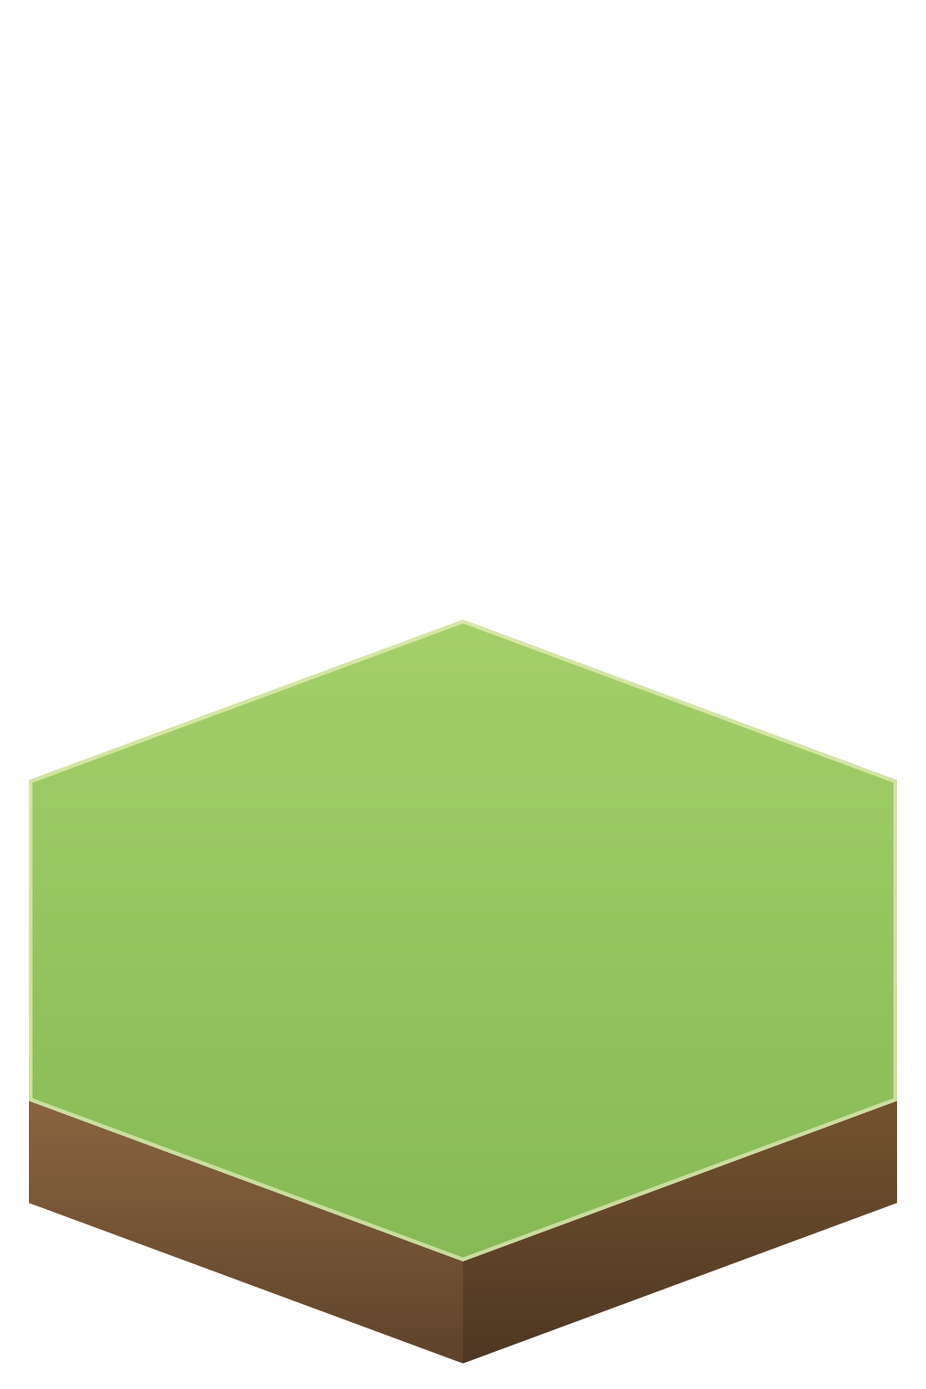
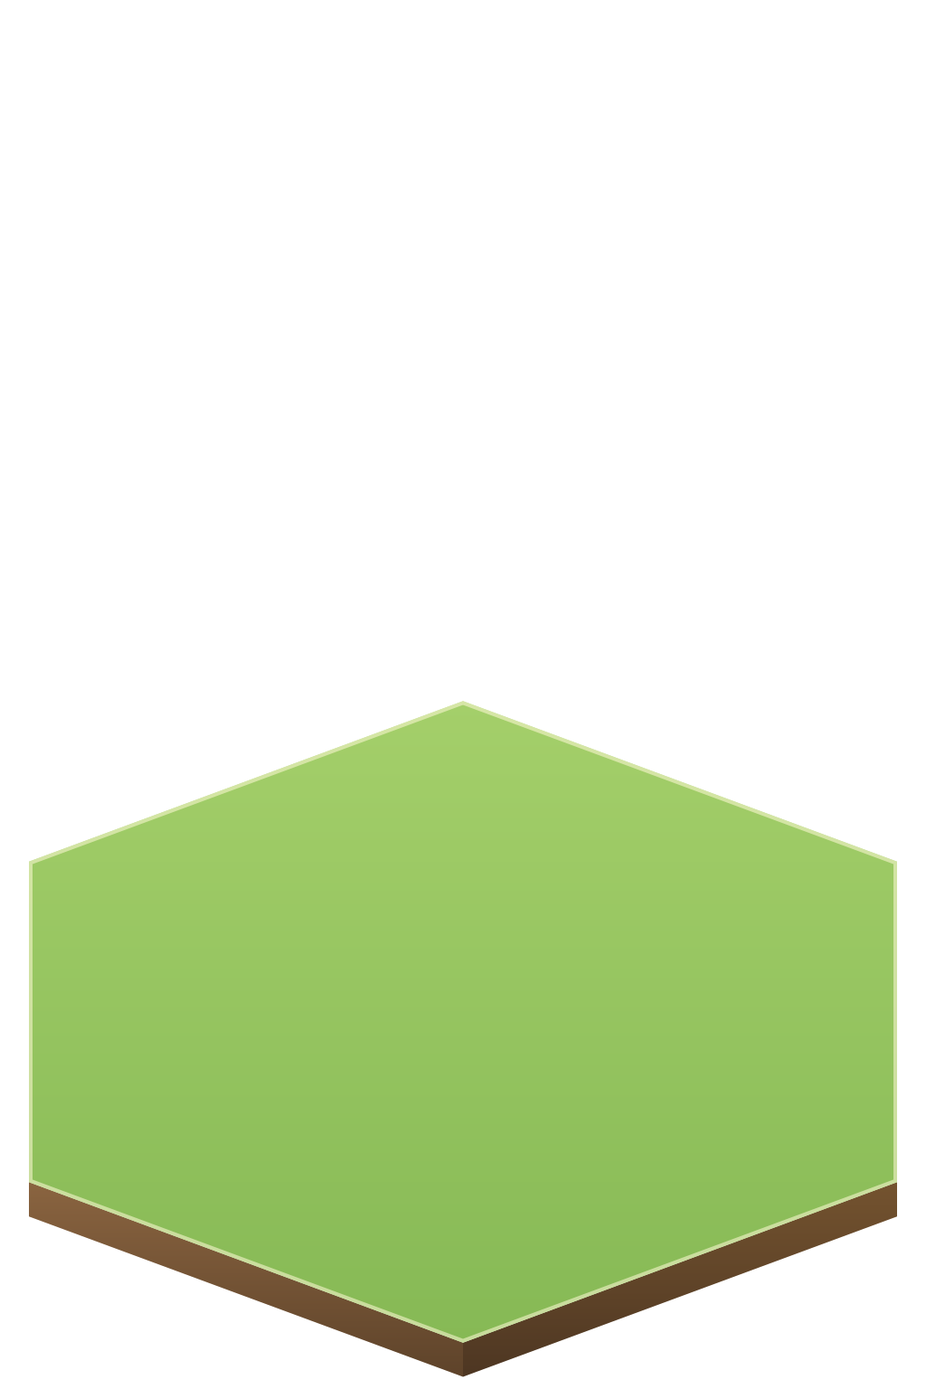
Board: full-hex plots separated by lanes that follow the travel tech
- ART.BOARD (src/art.js): plot radius 0.88, kerb 0.06, plinth 0.17 - one source
  for main.js, the atlas fit, the tile loader and the art spec
- Lanes between plots: cart track, cobbles, tarmac, garden path, guideway, moonstone
- Travellers drive along the lanes and are hidden by buildings in front
- Spec v2 follows the board: hex centre (512,1130), kerb 37.8 px; templates regenerated
- Art tools load PNGs by path (Buffer decoding fails on some valid PNGs)
- Brief: plots and lanes section, kerbs by family, updated numbers and checks

Changed region(s): [[0.0312, 0.7812, 0.9688, 1.0], [0.0312, 0.4375, 0.9688, 0.625]]

diff --git a/src/main.js b/src/main.js
@@ -448,6 +448,69 @@
   }
 
   function hexPath(x, y, u) { g.beginPath(); for (let i = 0; i < 6; i++) { const a = (Math.PI / 3) * i + Math.PI / 6; const px = x + Math.cos(a) * u, py = y + Math.sin(a) * u * SQ; if (i) g.lineTo(px, py); else g.moveTo(px, py); } g.closePath(); }
+  // v0.12 board: every building stands on its own full-hex plot, raised a low
+  // kerb above lanes that run between the plots (ART.BOARD). The lane surface
+  // follows the travel tech: cart track, cobbles, tarmac, garden path,
+  // guideway, moonstone. Travellers drive along the lanes.
+  const BOARD = ART.BOARD || { tileRadius: 0.93, kerb: 0.19, plinth: 0.19 };
+  const LANES = {
+    '0': { road: '#b49b6c', kerb: '#8b7352', mark: 'ruts', line: '#977c52' },
+    '1': { road: '#a89f92', kerb: '#857c70', mark: 'cobbles', line: '#8c8378' },
+    '2': { road: '#72777c', kerb: '#9a9a92', mark: 'dash', line: '#f3efdf' },
+    leaf: { road: '#d2bf8e', kerb: '#6fa04e', mark: 'flowers', line: '#f6d55e' },
+    star: { road: '#e4ecf0', kerb: '#c9d6dd', mark: 'glow', line: '#4fd0f0' },
+    magic: { road: '#86729f', kerb: '#6a5a86', mark: 'glints', line: '#f2d06c' },
+  };
+  function laneStyle() { const e = s.era.move; return LANES[e < 3 ? String(e) : (s.variant.move || 'leaf')] || LANES['0']; }
+  // Lane network: the edges of the full hexes, in hex units (x right, y down, before the squash).
+  function laneGraph(R) {
+    if (V.lanes && V.lanes.R === R) return V.lanes;
+    const P = new Map(), edges = [], seen = new Set(), cells = {};
+    const vid = (X, Y) => { const k = Math.round(X * 1000) + ',' + Math.round(Y * 1000); if (!P.has(k)) P.set(k, { X, Y, n: [] }); return k; };
+    for (let q = -R; q <= R; q++) for (let r = -R; r <= R; r++) {
+      if (B.hexDist(q, r) > R) continue;
+      const cx = SQ3 * (q + r / 2), cy = 1.5 * r, ids = [];
+      for (let i = 0; i < 6; i++) { const a = (Math.PI / 3) * i + Math.PI / 6; ids.push(vid(cx + Math.cos(a), cy + Math.sin(a))); }
+      cells[B.key(q, r)] = ids;
+      for (let i = 0; i < 6; i++) {
+        const a = ids[i], b = ids[(i + 1) % 6], k = a < b ? a + '|' + b : b + '|' + a;
+        if (seen.has(k)) continue; seen.add(k); edges.push([a, b]); P.get(a).n.push(b); P.get(b).n.push(a);
+      }
+    }
+    return (V.lanes = { R, P, edges, cells });
+  }
+  function laneRoute(G, from, to) {
+    const prev = new Map([[from, null]]), queue = [from];
+    while (queue.length) { const k = queue.shift(); if (k === to) break; for (const n of G.P.get(k).n) if (!prev.has(n)) { prev.set(n, k); queue.push(n); } }
+    if (!prev.has(to)) return null;
+    const out = []; for (let k = to; k; k = prev.get(k)) out.unshift(G.P.get(k)); return out;
+  }
+  const laneX = (X) => V.cx + V.u * X, laneY = (Y) => V.cy + V.u * (Y * SQ + BOARD.kerb);
+  function drawLanes(R, list) {
+    const u = V.u, st = laneStyle(), G = laneGraph(R), kerb = u * BOARD.kerb, plinth = u * BOARD.plinth, c = 1 - V.smog;
+    const road = mix(shade(st.road, -0.18), st.road, c), side = mix('#6f573b', '#86674a', c);
+    // plinth sides, then the lane surface (one full hex per cell, so the lanes join up)
+    for (const [q, r] of list) { const x = hx(q, r), y = hy(q, r) + kerb; hexPath(x, y + plinth, u); g.fillStyle = side; g.fill(); g.fillRect(x - u * SQ3 / 2, y, u * SQ3, plinth); }
+    for (const [q, r] of list) { hexPath(hx(q, r), hy(q, r) + kerb, u * 1.01); g.fillStyle = road; g.fill(); }
+    // markings along the middle of each lane
+    const lw = Math.max(1, u * 0.022);
+    g.save(); g.lineCap = 'round';
+    for (const [a, b] of G.edges) {
+      const A = G.P.get(a), Bv = G.P.get(b), x1 = laneX(A.X), y1 = laneY(A.Y), x2 = laneX(Bv.X), y2 = laneY(Bv.Y);
+      if (st.mark === 'dash') { g.strokeStyle = st.line; g.lineWidth = lw; g.setLineDash([u * 0.09, u * 0.08]); g.beginPath(); g.moveTo(x1, y1); g.lineTo(x2, y2); g.stroke(); g.setLineDash([]); }
+      else if (st.mark === 'ruts' || st.mark === 'cobbles' || st.mark === 'glints') {
+        const n = st.mark === 'ruts' ? 2 : 6;
+        for (let i = 0; i < n; i++) {
+          const k = (i + 0.5) / n, x = x1 + (x2 - x1) * k, y = y1 + (y2 - y1) * k;
+          if (st.mark === 'ruts') { g.strokeStyle = st.line; g.lineWidth = lw * 0.8; g.beginPath(); g.moveTo(x1 + (x2 - x1) * (k - 0.22), y1 + (y2 - y1) * (k - 0.22)); g.lineTo(x1 + (x2 - x1) * (k + 0.22), y1 + (y2 - y1) * (k + 0.22)); g.stroke(); }
+          else if (st.mark === 'cobbles') ell(g, x, y, u * 0.028, u * 0.018, st.line);
+          else { const tw = 0.5 + 0.5 * Math.sin(V.t * 2 + x * 0.13 + y * 0.07); g.globalAlpha = 0.35 + 0.6 * tw; circle(g, x, y, u * 0.016 * (0.7 + tw * 0.6), st.line); g.globalAlpha = 1; }
+        }
+      } else if (st.mark === 'glow') { g.strokeStyle = 'rgba(79,208,240,0.25)'; g.lineWidth = lw * 3; g.beginPath(); g.moveTo(x1, y1); g.lineTo(x2, y2); g.stroke(); g.strokeStyle = st.line; g.lineWidth = lw * 0.8; g.stroke(); }
+      else if (st.mark === 'flowers') { for (let i = 0; i < 3; i++) { const k = (i + 0.5) / 3, x = x1 + (x2 - x1) * k, y = y1 + (y2 - y1) * k; circle(g, x, y, u * 0.02, ['#f6d55e', '#f49ac1', '#ffffff'][(i + Math.round(x)) % 3]); } }
+    }
+    g.restore();
+  }
   const GROUND = { home: '#f0b080', power: '#e8e0a0', food: '#e0c070', water: '#8fd0f0', move: '#c8c0b8', make: '#d0b0e0', waste: '#a8d8b0', wild: '#3f9a3a' };
   function groups() {
     if (V.grp && V.grp.turn === s.turn && V.grp.n === s.log.length) return V.grp.m;
@@ -463,13 +526,14 @@
   }
   function drawBoard() {
     const bubbles = [], gm = groups(), flags = [];
-    const R = s.radius, u = V.u, c = 1 - V.smog, depth = u * 0.19, tileRadius = 0.93;
+    const R = s.radius, u = V.u, c = 1 - V.smog, depth = u * BOARD.kerb, tileRadius = BOARD.tileRadius, lane = laneStyle();
     const grass = mix('#9b9561', '#7fcf5b', V.vivid), grassHi = mix('#a8a26c', '#97dc6e', V.vivid), side = mix('#7b6142', '#8a6a46', c);
     const list = [];
     for (let q = -R; q <= R; q++) for (let r = -R; r <= R; r++) if (B.hexDist(q, r) <= R) list.push([q, r]);
     list.sort((a, b) => a[1] - b[1] || a[0] - b[0]);
     // board shadow
     g.globalAlpha = 0.07; ell(g, V.cx, V.cy + depth + u * 0.45, u * SQ3 * (R + 0.35), u * 1.5 * SQ * (R + 0.45), '#2a2a1a'); g.globalAlpha = 1;
+    drawLanes(R, list);
     const growing = V.t - V.growT < 1.2;
     // pass 1: ground tiles (sides first for outer ring, then tops)
     for (const [q, r] of list) {
@@ -478,7 +542,7 @@
       let a = 1; if (growing && d === R) { const k = Math.min(1, (V.t - V.growT - (Math.atan2(r, q) + Math.PI) / TAU * 0.4) / 0.5); a = Math.max(0, k); y += (1 - a) * 30; }
       if (a <= 0) continue;
       g.globalAlpha = a;
-      hexPath(x, y + depth, u * tileRadius); g.fillStyle = side; g.fill();
+      hexPath(x, y + depth, u * tileRadius); g.fillStyle = mix(shade(lane.kerb, -0.2), lane.kerb, c); g.fill();
       g.fillRect(x - u * SQ3 / 2 * tileRadius, y, u * SQ3 * tileRadius, depth);
       const t = s.tiles[B.key(q, r)];
       hexPath(x, y, u * tileRadius);
@@ -492,7 +556,7 @@
         for (const [nq, nr] of B.neighbors(q, r)) {
           const n = s.tiles[B.key(nq, nr)]; if (n && n.type === t.type) continue;
           const ang = Math.atan2((hy(nq, nr) - y) / SQ, hx(nq, nr) - x), i = (((Math.round((ang - Math.PI / 3) / (Math.PI / 3))) % 6) + 6) % 6;
-          const a1 = (Math.PI / 3) * i + Math.PI / 6, a2 = a1 + Math.PI / 3, ru = u * 0.90;
+          const a1 = (Math.PI / 3) * i + Math.PI / 6, a2 = a1 + Math.PI / 3, ru = u * tileRadius * 0.96;
           g.beginPath(); g.moveTo(x + Math.cos(a1) * ru, y + Math.sin(a1) * ru * SQ); g.lineTo(x + Math.cos(a2) * ru, y + Math.sin(a2) * ru * SQ); g.stroke();
         }
       }
@@ -505,6 +569,7 @@
     else if (V.sel >= 0 && V.hover) { const [q, r] = V.hover.split(',').map(Number); if (B.hexDist(q, r) <= R && s.tiles[V.hover]) { hexPath(hx(q, r), hy(q, r), u * tileRadius); g.strokeStyle = 'rgba(255,255,255,0.25)'; g.lineWidth = 2; g.stroke(); } }
     const hint = idleHint();
     if (hint) { const x = hx(hint.q, hint.r), y = hy(hint.q, hint.r), p = 0.5 + 0.5 * Math.sin(V.t * 4); hexPath(x, y, u * (0.76 + p * 0.12)); g.strokeStyle = `rgba(255,240,150,${0.5 + p * 0.4})`; g.lineWidth = 3; g.stroke(); }
+    travellers(V.dtBoard || 1 / 60); // on the lanes: plots and buildings in front hide them
     // pass 2: buildings + critters in depth order
     const night = V.finale && ['star','magic'].includes(V.finale.crown) && V.t - V.finale.t > 2;
     for (const [q, r] of list) {
@@ -566,14 +631,27 @@
     if (moves.length && V.trav.length < 4 + moves.length * 2 && Math.random() < dt * (0.6 + moves.length * 0.25)) {
       const m = moves[Math.floor(Math.random() * moves.length)];
       const dests = Object.values(s.tiles).filter((t) => (t.type === 'home' || t.type === 'make' || t.type === 'food') && B.hexDist(t.q - m.q, t.r - m.r) <= 3 && (t.q !== m.q || t.r !== m.r));
-      if (dests.length) { const d = dests[Math.floor(Math.random() * dests.length)]; V.trav.push({ a: [m.q, m.r], b: [d.q, d.r], t: 0, dur: 2.5 + B.hexDist(d.q - m.q, d.r - m.r) * 1.2, back: Math.random() < 0.5 }); }
+      if (dests.length) {
+        // drive along the lanes from a corner of the travel tile to a corner of the destination
+        const d = dests[Math.floor(Math.random() * dests.length)], G = laneGraph(s.radius), pick = (ids) => ids[Math.floor(Math.random() * 6)];
+        let pts = laneRoute(G, pick(G.cells[B.key(m.q, m.r)]), pick(G.cells[B.key(d.q, d.r)]));
+        if (pts && pts.length > 1) {
+          if (Math.random() < 0.5) pts = pts.reverse();
+          let len = 0; for (let j = 1; j < pts.length; j++) len += Math.hypot(pts[j].X - pts[j - 1].X, pts[j].Y - pts[j - 1].Y);
+          V.trav.push({ pts, len, t: 0, dur: 1.5 + len * 0.9 });
+        }
+      }
     }
     const era = s.era.move, v = s.variant.move;
     for (let i = V.trav.length - 1; i >= 0; i--) {
       const tr = V.trav[i]; tr.t += dt; const k = tr.t / tr.dur; if (k >= 1) { V.trav.splice(i, 1); continue; }
-      const e = k * k * (3 - 2 * k), [a, b] = tr.back ? [tr.b, tr.a] : [tr.a, tr.b];
-      const x = hx(a[0], a[1]) + (hx(b[0], b[1]) - hx(a[0], a[1])) * e, y = hy(a[0], a[1]) + (hy(b[0], b[1]) - hy(a[0], a[1])) * e + V.u * 0.3;
-      const dir = hx(b[0], b[1]) >= hx(a[0], a[1]) ? 1 : -1, fade = Math.min(1, k * 8, (1 - k) * 8), sc = V.u / 30;
+      if (!tr.pts) { V.trav.splice(i, 1); continue; }
+      let dist = (k * k * (3 - 2 * k)) * tr.len, j = 1;
+      for (; j < tr.pts.length - 1; j++) { const sl = Math.hypot(tr.pts[j].X - tr.pts[j - 1].X, tr.pts[j].Y - tr.pts[j - 1].Y); if (dist <= sl) break; dist -= sl; }
+      const p0 = tr.pts[j - 1], p1 = tr.pts[j], sl = Math.hypot(p1.X - p0.X, p1.Y - p0.Y) || 1, f = Math.min(1, dist / sl);
+      const x = laneX(p0.X + (p1.X - p0.X) * f), y = laneY(p0.Y + (p1.Y - p0.Y) * f);
+      const dir = p1.X > p0.X + 1e-6 ? 1 : p1.X < p0.X - 1e-6 ? -1 : (tr.dir || 1); tr.dir = dir;
+      const fade = Math.min(1, k * 8, (1 - k) * 8), sc = V.u / 30;
       if (ART.drawTraveller && ART.drawTraveller(g, era < 3 ? String(era) : v, x, y, V.u, dir, V.t + i, fade)) continue; // imagegen sprite when listed
       g.globalAlpha = fade; g.save(); g.translate(x, y); g.scale(dir * sc, sc);
       ell(g, 0, 2, 6, 1.6, 'rgba(0,0,0,0.18)');
@@ -1245,7 +1323,7 @@
     if (!V.titleTown) { V.titleTown = B.newGame({ mode: 'cozy', seed: 7 }); demoFill(V.titleTown, 40); }
     const keep = s; s = V.titleTown; fitBoard();
     V.smog += ((B.smogLevel(s)) - V.smog) * 0.02; V.vivid = 1 - V.smog;
-    sky(); haze(); drawBoard(); travellers(1 / 60); drawParticles(1 / 60);
+    sky(); haze(); V.dtBoard = 1 / 60; drawBoard(); drawParticles(1 / 60);
     s = keep; if (s) fitBoard();
     { const rg = g.createRadialGradient(W / 2, H * 0.48, 10, W / 2, H * 0.48, Math.max(W, H) * 0.55); rg.addColorStop(0, 'rgba(255,250,235,0.7)'); rg.addColorStop(0.6, 'rgba(255,250,235,0.35)'); rg.addColorStop(1, 'rgba(255,250,235,0)'); g.fillStyle = rg; g.fillRect(0, 0, W, H); }
     g.textAlign = 'center'; g.textBaseline = 'middle';
@@ -1330,7 +1408,7 @@
     if (V.finale) V.vivid = Math.min(1, V.vivid + dt * 0.2);
     V.eve += (eveTarget() - V.eve) * Math.min(1, dt * 0.35);
     AU.update({ eve: V.eve, progress: Math.min(1, s.sunLevel / 18), clean: 1 - V.smog, critters: s.critterCount, futurePaths: futurePaths() });
-    sky(); haze(); drawBoard(); travellers(dt); drawParticles(dt); evening(); drawFloats(dt); drawFinale(dt);
+    sky(); haze(); V.dtBoard = dt; drawBoard(); drawParticles(dt); evening(); drawFloats(dt); drawFinale(dt);
     if (!V.finale) { drawSunMeter(); drawSpecies(); drawTech(); drawHand(); spotlight(); drawGoal(dt); drawGuide(); }
     drawFork();
     if (!V.finale && !V.fork) { peekTick(); drawPeek(); }

diff --git a/src/art.js b/src/art.js
@@ -203,5 +203,10 @@
   function heartBadge(g, x, y, r, c = '#ff5c86') { g.fillStyle = c; g.beginPath(); g.moveTo(x, y + r * 0.9); g.bezierCurveTo(x - r * 1.4, y - r * 0.1, x - r * 0.6, y - r * 1.2, x, y - r * 0.4); g.bezierCurveTo(x + r * 0.6, y - r * 1.2, x + r * 1.4, y - r * 0.1, x, y + r * 0.9); g.fill(); g.strokeStyle = '#fff'; g.lineWidth = Math.max(1, r * 0.22); g.stroke(); }
   function frownBadge(g, x, y, r) { circle(g, x, y, r + 1.2, '#fff'); circle(g, x, y, r, '#9aa3ad'); circle(g, x - r * 0.35, y - r * 0.2, r * 0.13, '#fff'); circle(g, x + r * 0.35, y - r * 0.2, r * 0.13, '#fff'); g.strokeStyle = '#fff'; g.lineWidth = Math.max(1, r * 0.16); g.beginPath(); g.arc(x, y + r * 0.55, r * 0.38, Math.PI * 1.15, Math.PI * 1.85); g.stroke(); }
 
-  root.ART = { drawBuilding, drawCritter, mix, shade, rgb, hex2rgb, box, tree, pine, circle, ell, glowDot, flower, turbine, panel, TAU, drawReason, heartBadge, frownBadge, bolt };
+  // Board geometry, shared by main.js and the tile art (docs/ART-DIRECTION.md).
+  // Each building stands on its own plot: a hex of radius tileRadius (in hex
+  // units u), raised kerb*u above the lanes that run between the plots. The
+  // whole board sits on a plinth plinth*u deep.
+  const BOARD = Object.freeze(Object.assign({ tileRadius: 0.88, kerb: 0.06, plinth: 0.17 }, root.BF_BOARD || {}));
+  root.ART = { BOARD, drawBuilding, drawCritter, mix, shade, rgb, hex2rgb, box, tree, pine, circle, ell, glowDot, flower, turbine, panel, TAU, drawReason, heartBadge, frownBadge, bolt };
 })(typeof window !== 'undefined' ? window : globalThis);

diff --git a/src/generated-art.js b/src/generated-art.js
@@ -59,7 +59,8 @@
 
   // Board-only layout: keep icon and field-guide framing unchanged. The
   // fresh illustrations are scaled uniformly, never stretched or masked.
-  A.boardFootprint = Object.freeze({ tileRadius: 0.93, imageSide: 1.68, groundOffset: 0.18 });
+  const PLOT = (A.BOARD && A.BOARD.tileRadius) || 0.93; // board plot radius (art.js); these atlases were fitted to 0.93
+  A.boardFootprint = Object.freeze({ tileRadius: PLOT, imageSide: 1.68, groundOffset: 0.18 });
   // Measured ground slab of each atlas cell: [slab width, slab centre x, slab
   // bottom, whole-picture width], as fractions of the 443 px cell
   // (tools/art/measure-atlas.py).
@@ -95,6 +96,10 @@
       side *= Math.min(A.slabFit.width / slab[0], A.slabFit.maxWidth / slab[3]);
       left = x - slab[1] * side;
       top = base - slab[2] * side;
+    }
+    if (grounded && PLOT !== 0.93) { // shrink about the plot centre to fit the board's plot
+      const k = PLOT / 0.93 * 0.99, yc = y - u * A.boardFootprint.groundOffset;
+      left = x + (left - x) * k; top = yc + (top - yc) * k; side *= k;
     }
     const cellW = img.naturalWidth / 4, cellH = img.naturalHeight / 2;
     const px = function (v) { return left + v * side; };

diff --git a/src/tile-art.js b/src/tile-art.js
@@ -8,8 +8,8 @@
   const A = root.ART, M = root.BF_TILE_ART;
   if (!A || typeof root.Image !== 'function') return;
   // Canonical tile geometry in tile pixels. Keep in sync with tools/art/spec.cjs.
-  const SPEC = Object.freeze({ w: 1024, h: 1536, cx: 512, cy: 1040, halfW: 480, faceHalfH: 354.7, depth: 113 });
-  const HEX_HALF_W = 0.93 * Math.sqrt(3) / 2; // board hex half-width in units of u (main.js tileRadius 0.93)
+  const HEX_HALF_W = ((A.BOARD && A.BOARD.tileRadius) || 0.93) * Math.sqrt(3) / 2; // board plot half-width in units of u (art.js BOARD)
+  const SPEC = Object.freeze({ w: 1024, h: 1536, cx: 512, cy: 1130, halfW: 480, faceHalfH: 354.7, depth: ((A.BOARD && A.BOARD.kerb) || 0.19) * 480 / HEX_HALF_W });
   A.tileSpec = SPEC;
   const tiles = (M && M.tiles) || {}, sprites = (M && M.sprites) || {}, travellers = (M && M.travellers) || {};
   const imgs = Object.create(null), failed = [];

diff --git a/assets/tiles/manifest.js b/assets/tiles/manifest.js
@@ -1,7 +1,7 @@
 // BRIGHTFIELD per-tile art manifest (art spec v2). See docs/ART-DIRECTION.md.
 // A building listed here is drawn from its own PNG; anything not listed keeps
 // the v0.9 atlas art. All coordinates are tile pixels on the 1024 x 1536
-// canvas (hex centre 512,1040). Paths are relative to assets/tiles/.
+// canvas (hex centre 512,1130). Paths are relative to assets/tiles/.
 //
 // Example entry (delete the leading // to use):
 //   tiles: {

diff --git a/docs/ART-DIRECTION.md b/docs/ART-DIRECTION.md
@@ -37,6 +37,33 @@ Render `npm run art:preview` and open `tools/art/out/gallery.png` and
 The painting itself (palette, detail, charm, lighting) is good. Keep it. The job is
 to put the same art on the right base, then make the motion painted too.
 
+## 1a. The board: plots and lanes
+
+Decided with James: every building fills a **full hex plot**, and plots are
+separated by **lanes** (little streets) rather than sitting edge to edge. The board
+code already draws this (see `src/art.js` `ART.BOARD` and `drawLanes` in
+`src/main.js`):
+
+- Each plot is a hex of radius 0.88 board units, raised a low **kerb** (0.06
+  units) above the lanes. The gaps between plots are the lanes, and the whole
+  board stands on a plinth.
+- The lane surface follows the travel technology the player has: dirt cart track
+  (Stage 0), cobbles (1), tarmac with a dashed line (2), gravel garden path with
+  flowers (Nature), pale guideway with a teal light line (Future), violet
+  moonstone with twinkling gold glints (Magic).
+- Travellers (the little vehicles) now drive along the lanes from the travel
+  building to homes, farms and workshops, and buildings in front hide them.
+
+Why lanes and not thin borders: with thin borders the plots touch and the town
+reads as one busy carpet; lanes give each building its own clear plot, make the
+grid obvious for a child placing tiles, show the age through the roads, and give
+the travellers somewhere to drive. Buildings are about 5% smaller than with
+borders, which still reads well on a phone.
+
+So the tiles do **not** paint roads around their edges; the board does that. A
+tile paints its plot: the full hex top face plus a thin kerb. Paths or roads on a
+plot may run right out to the plot edge so they meet the lane.
+
 ## 2. Target look
 
 - Same style as the v0.9 tiles: cosy, detailed isometric miniatures, warm light,
@@ -47,8 +74,9 @@ to put the same art on the right base, then make the motion painted too.
 - Camera: the board's own view. Top face is the hex squashed to 0.64 of its width
   (about 40° elevation). Buildings must sit in that same perspective; do not paint
   them straight-on or from a steeper angle.
-- Every building sits on a **full** hex slab: the grass/ground top face reaches all
-  six edges of the hex, and two front side faces show the slab's thickness.
+- Every building sits on a **full** hex plot: the grass/ground top face reaches all
+  six edges of the hex, and the two front side faces show a thin kerb (stone,
+  hedge, metal or gold trim depending on the age) where the plot meets the lane.
 - One building's worth of content per tile. Keep the main structure in the
   middle; small props (carts, crates, benches, flowers) fill the rest of the top
   face so the hex never looks empty.
@@ -66,18 +94,20 @@ Every tile is one PNG:
 | --- | --- |
 | Canvas | **1024 × 1536 px**, RGBA, fully transparent background |
 | Hex | pointy-top: vertices at top and bottom, vertical left and right sides |
-| Hex centre (top face) | **(512, 1040)** |
-| Top face | half-width **480** (x 32 to 992), half-height **354.7** (y 685.3 to 1394.7) |
-| Top face vertices | (512, 685.3) (992, 862.6) (992, 1217.4) (512, 1394.7) (32, 1217.4) (32, 862.6) |
-| Side faces | the two front faces only, straight down **113 px** |
-| Slab bottom outline | (32, 1330.4) → (512, 1507.7) → (992, 1330.4) |
+| Hex centre (top face) | **(512, 1130)** |
+| Top face | half-width **480** (x 32 to 992), half-height **354.7** (y 775.3 to 1484.7) |
+| Top face vertices | (512, 775.3) (992, 952.7) (992, 1307.4) (512, 1484.7) (32, 1307.4) (32, 952.7) |
+| Side faces (kerb) | the two front faces only, straight down **37.8 px** |
+| Slab bottom outline | (32, 1345.2) → (512, 1522.5) → (992, 1345.2) |
 | Headroom | nothing above **y = 24** |
 | Keep region | nothing left of x = 32, right of x = 992, or below the slab bottom outline |
 | Above the slab | anything tall (towers, trees, turbine blades) may rise above the face, inside the x 32–992 columns |
 
 On the board the game scales the whole PNG uniformly so the top face lands exactly
-on the board hex (scale = board hex half-width / 480). So a tile that matches these
-numbers sits perfectly with no plate-on-plate and no gaps between neighbours.
+on the board plot (scale = plot half-width / 480) and the kerb drops exactly to the
+lane. So a tile that matches these numbers sits perfectly, with no plate-on-plate.
+The kerb depth comes from `ART.BOARD` (37.8 px = 0.06 / (0.88 × √3/2) × 480); if
+the board geometry ever changes, `tools/art/spec.cjs` and the templates follow it.
 
 ### Templates (in `assets/tiles/_template/`)
 
@@ -93,18 +123,18 @@ numbers sits perfectly with no plate-on-plate and no gaps between neighbours.
 Regenerate the templates with `npm run art:templates` (geometry lives in
 `tools/art/spec.cjs`, the single source of truth, mirrored in `src/tile-art.js`).
 
-### Slab sides by family
+### Kerbs by family
 
-So a whole town reads as one board, the two side faces should be identical within a
+So a whole town reads as one board, the two kerb faces should be identical within a
 family. Paint one plain slab per family into `assets/tiles/_slab/<family>.png`
 (same 1024 × 1536 canvas, side faces only matter) and paste it onto every tile with
 `fit-tile --sides`:
 
 | Family | Stages | Side faces |
 | --- | --- | --- |
-| `earth` | 0, 1, 2 | layered brown soil, a thin grass lip at the top, a few stones |
-| `garden` | leaf | rich dark soil with roots and moss |
-| `alloy` | star | white/pearl panel with a thin teal light line and gold trim |
+| `earth` | 0, 1, 2 | grey-brown kerbstones under a thin grass lip |
+| `garden` | leaf | a low clipped hedge or mossy log edging |
+| `alloy` | star | white/pearl edge with a thin teal light line |
 | `arcane` | magic | violet stone blocks with a gold band |
 
 The top face's rim (the strip where it meets the sides) should be the same grass /
@@ -119,7 +149,7 @@ material on every tile of a family.
 2. Snap it to the spec:
    `npm run art:fit -- raw.png assets/tiles/<stage>/<type>.png --sides assets/tiles/_slab/<family>.png`
    This finds the painted slab, scales it to exactly 960 px wide, puts its bottom on
-   y 1507.7, clears anything outside the keep region, and pastes the family sides.
+   y 1522.5, clears anything outside the keep region, and pastes the family sides.
    It prints how many pixels it clipped; "LOTS clipped" means regenerate.
 3. Check it: `npm run art:check -- assets/tiles/<stage>/<type>.png` (geometry only),
    then list it in `assets/tiles/manifest.js` and run `npm run art:check` (every
@@ -219,7 +249,7 @@ These are suggestions; pick one or two motions per tile that suit what is painte
 
 ## 6. Per-tile notes for the repaint
 
-All 48 tiles get the new slab (that is the main fix). On top of that:
+All 48 tiles get the new full-hex plot (that is the main fix). On top of that:
 
 - **Stage 2 (all 8):** paint at the same building scale as Stage 0/1; v0.9 Stage 2
   sits smaller on its slab.
@@ -251,7 +281,8 @@ branch.
    motions above, and the six traveller sprites.
 3. **Round 3, glow and effects.** Glow layers for Future, Magic and night windows;
    painted smoke puffs, sparkles, petals and critters (Claude adds the code hooks
-   first).
+   first). Optional: a small seamless lane texture per age to replace the
+   code-drawn lane surface.
 
 ## 8. Acceptance checks
 
@@ -261,9 +292,10 @@ A round passes when all of these hold:
       headroom, slab at least 99.5% solid, slab edges within 3 px of the spec lines,
       manifest valid, actor paths on the top face).
 - [ ] `npm test` passes.
-- [ ] In `tools/art/out/closeup-*.png` no board-green rim shows around any slab, and
-      neighbouring tiles touch edge to edge with no overlap.
-- [ ] Side faces are identical across a family.
+- [ ] In `tools/art/out/closeup-*.png` each building fills its plot (no grass rim
+      or second plate inside it), every lane between plots stays clear, and nothing
+      hangs over a neighbour's plot.
+- [ ] Kerb faces are identical across a family.
 - [ ] Each building still reads clearly at gallery size (about 150 px wide).
 - [ ] Style, palette and light match the rest of the set; nothing looks like a
       different artist.
